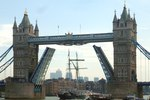
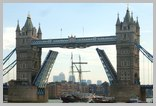
styling refactoring

diff --git a/instagram_clone/app/models/picture.rb b/instagram_clone/app/models/picture.rb
@@ -2,6 +2,7 @@ class Picture < ActiveRecord::Base
 
   has_many :likes
 
-  has_attached_file :image, :styles => { :medium => "300x300>", :thumb => "150x150>" }, :default_url => "/images/:style/missing.png"
+  has_attached_file :image, :styles => { :medium => "300x300>", :thumb => "150x150>" }, :convert_options => { :thumb => ["-bordercolor grey","-border 3x3"] }, :default_url => "/images/:style/missing.png"
+
   validates_attachment_content_type :image, :content_type => /\Aimage\/.*\Z/
 end

diff --git a/instagram_clone/app/controllers/pictures_controller.rb b/instagram_clone/app/controllers/pictures_controller.rb
@@ -15,4 +15,13 @@ class PicturesController < ApplicationController
   def picture_params
     params.require(:picture).permit(:name, :comments, :image)
   end
+
+  def destroy
+    @picture = Picture.find(params[:id])
+      @picture.destroy
+      flash[:notice] = 'Picture deleted successfully'
+    redirect_to '/pictures'
+  end
+
+
 end
